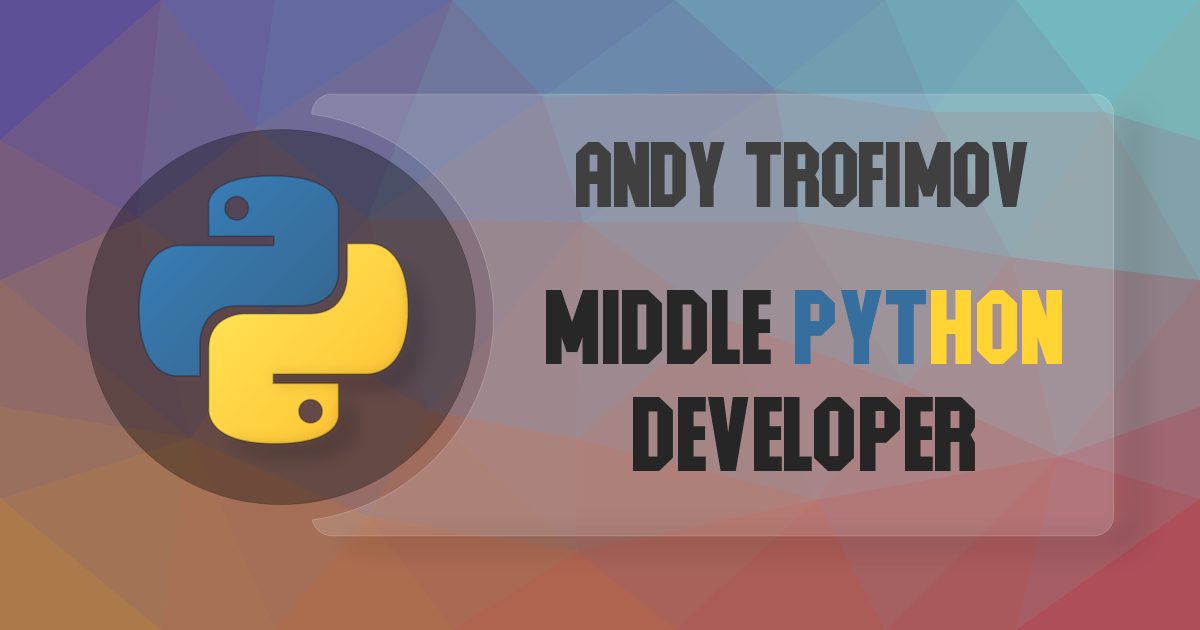
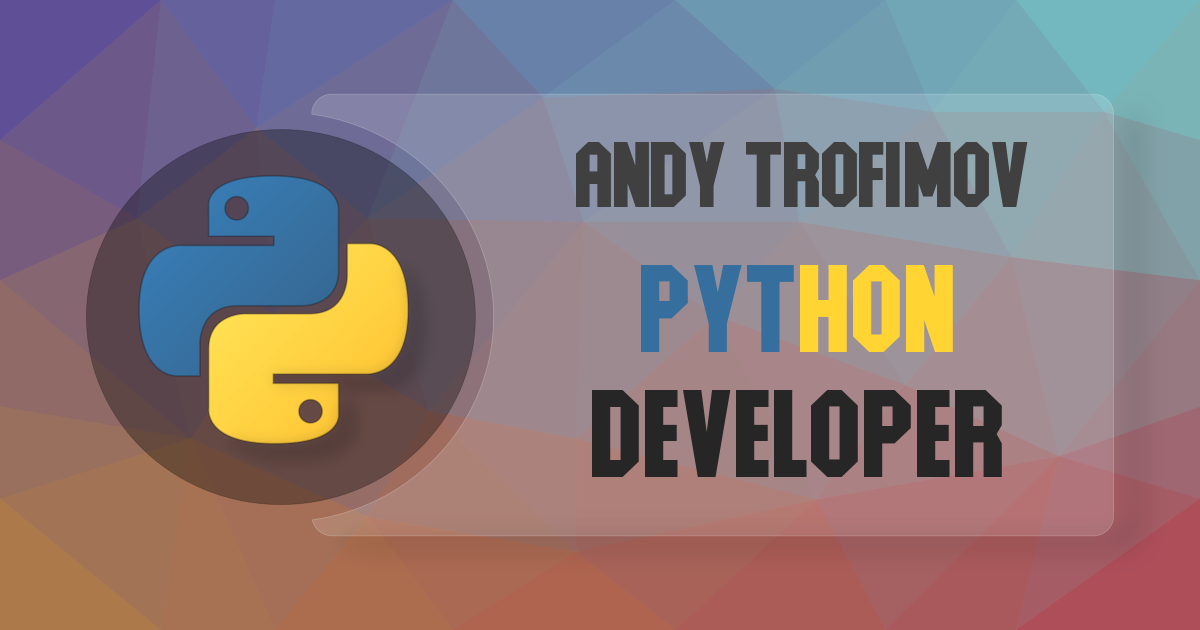
Add Realiste company

Changed region(s): [[0.4317, 0.4222, 0.8942, 0.754]]

diff --git a/src/icons/Sections/Interests.jsx b/src/icons/Sections/Interests.jsx
@@ -24,6 +24,24 @@ export const HiraganaIcon = createIcon({
   displayName: 'Hiragana Icon'
 })
 
+export const PlaneIcon = createIcon({
+  d: 'M-2.023-2.04c-.016.013-.016.02-.012.028.015-.011.023-.02.012-.027zm54.105 0c-.004 0-.004.005-.008.005.016.015.024.023.031.012-.007-.012-.015-.016-.023-.016zm-9.621 13.536c-.461.043-.906.082-1.348.137a7.005 7.005 0 00-2.074.61c-.812.378-1.613.773-2.422 1.155-.777.372-1.55.743-2.328 1.114-.8.386-1.602.77-2.402 1.152l-2.332 1.113c-.801.383-1.602.77-2.403 1.153-.808.386-1.613.773-2.418 1.16-.773.367-1.543.734-2.316 1.105L20 21.355l-2.39 1.141c-.782.375-1.563.746-2.344 1.125-.73.352-1.457.703-2.188 1.063a.582.582 0 01-.465.03c-.695-.234-1.398-.452-2.097-.683-1.29-.414-2.575-.836-3.864-1.254-.672-.218-1.343-.441-2.02-.656a.349.349 0 00-.218.008c-.648.289-1.289.582-1.945.879.015.031.035.078.066.113.332.379.66.762.996 1.137.45.5.903.996 1.36 1.492.359.39.718.79 1.097 1.164 1.04 1.027 2.09 2.05 3.137 3.07.184.176.375.34.574.493.36.265.785.351 1.215.367.512.02 1.027.008 1.535-.032a16.21 16.21 0 001.676-.203 49.596 49.596 0 002.727-.562 32.827 32.827 0 004.07-1.242 47.97 47.97 0 002.7-1.13c.757-.34 1.495-.718 2.241-1.077.07-.035.14-.059.13.074-.024.23-.028.46-.048.691-.03.364-.066.723-.105 1.086-.043.399-.09.797-.13 1.196-.026.246-.046.488-.073.734-.043.394-.09.785-.13 1.18-.027.25-.046.5-.073.75-.043.394-.09.789-.13 1.18-.027.25-.046.503-.074.753-.043.387-.09.774-.128 1.16-.028.258-.047.512-.075.77-.043.387-.09.773-.129 1.164-.027.254-.046.512-.074.766-.043.382-.09.765-.129 1.148-.027.262-.05.523-.078.781-.039.38-.082.754-.125 1.133-.035.281-.07.563-.094.848a7.872 7.872 0 00-.039.804c.004.239.153.383.332.348.067-.012.125-.066.188-.094.398-.187.8-.37 1.2-.558.597-.282 1.183-.582 1.792-.836.324-.137.54-.38.766-.614.093-.097.168-.226.215-.355.343-.934.68-1.875 1.015-2.812.465-1.29.926-2.579 1.39-3.868.415-1.16.833-2.316 1.25-3.476.54-1.504 1.079-3.012 1.618-4.516.46-1.285.922-2.566 1.379-3.851.055-.149.121-.258.273-.309.106-.035.203-.086.305-.133l1.566-.75c.485-.238.97-.48 1.457-.715.747-.355 1.497-.71 2.239-1.066.914-.438 1.82-.887 2.738-1.316.727-.344 1.414-.747 2.008-1.29.531-.48.969-1.039 1.262-1.699.168-.386.261-.8.171-1.219a2.13 2.13 0 00-1.132-1.48c-.926-.492-1.934-.656-2.965-.71-.317-.017-.633 0-.965 0zm-26.469 1.09a3.277 3.277 0 00-.328.027c-.012 0-.023-.004-.031 0-.07.016-.149.02-.211.051-.985.488-1.973.98-2.957 1.477a.464.464 0 00-.043.808c.746.477 1.496.95 2.242 1.422.625.399 1.25.8 1.883 1.207.91.594 1.816 1.176 2.715 1.766.113.074.203.043.304-.004.711-.336 1.426-.672 2.137-1.004 1.016-.48 2.031-.957 3.047-1.434.418-.199.844-.386 1.262-.586.195-.09.39-.191.617-.308-.086-.035-.125-.059-.172-.074-.738-.254-1.477-.504-2.215-.754-.984-.336-1.969-.676-2.957-1.012-1.043-.355-2.086-.711-3.129-1.07-.707-.243-1.406-.528-2.164-.512zm36.106 39.488c-.016.012-.024.02-.012.028.016-.012.016-.024.012-.028zm-54.133.008c-.004 0-.004 0-.008.004.012.016.023.016.031.012-.011-.012-.015-.02-.023-.016zm0 0',
+  viewBox: '0 0 50 50',
+  displayName: 'Plane Icon'
+})
+
+export const SegaNesIcon = createIcon({
+  d: 'M12.74 11.642c-3.145.204-5.924 1.327-8.335 3.37-4.36 4.357-5.484 9.444-3.37 15.26C3.39 35.179 7.293 37.855 12.74 38.3c8.623.118 17.243.077 25.86-.123 4.198-.687 7.405-2.832 9.622-6.435 2.37-4.494 2.37-8.988 0-13.482-2.52-4.05-6.177-6.235-10.97-6.557a2451.63 2451.63 0 00-24.513-.061zm23.359 5.456c1.358 0 2.451 1.093 2.451 2.451s-1.093 2.452-2.451 2.452-2.451-1.094-2.451-2.452 1.093-2.45 2.451-2.45zm-23.28.343h1.334a1.36 1.36 0 011.362 1.363V22.9h4.097a1.36 1.36 0 011.363 1.363v1.333a1.36 1.36 0 01-1.363 1.363h-4.097v4.097a1.36 1.36 0 01-1.362 1.362h-1.334a1.36 1.36 0 01-1.363-1.362v-4.097H7.36a1.36 1.36 0 01-1.363-1.363v-1.333A1.36 1.36 0 017.36 22.9h4.096v-4.096a1.36 1.36 0 011.363-1.363zm17.83 5.083a2.446 2.446 0 012.451 2.451 2.446 2.446 0 01-2.451 2.451 2.446 2.446 0 01-2.451-2.45 2.446 2.446 0 012.451-2.452zm10.903 0c1.358 0 2.451 1.093 2.451 2.451s-1.093 2.451-2.451 2.451-2.451-1.093-2.451-2.45 1.093-2.452 2.451-2.452zM36.099 28a2.446 2.446 0 012.451 2.451 2.446 2.446 0 01-2.451 2.451 2.446 2.446 0 01-2.451-2.45A2.446 2.446 0 0136.097 28z',
+  viewBox: '0 0 50 50',
+  displayName: 'Sega / NES Icon'
+})
+
+export const NoteIcon = createIcon({
+  d: 'M22.918 0v33.332h-12.5V37.5H6.25v8.332h4.168V50h12.5v-4.168h4.164V16.668h8.336V25h4.164v8.332h4.168V16.668h-4.168V12.5h-4.164V8.332H31.25V4.168h-4.168V0zm0 0',
+  viewBox: '0 0 50 50',
+  displayName: 'Note Icon'
+})
+
 /** Icon factory */
 export const getIcon = ({ name, props }) => {
   switch (name) {
@@ -35,6 +53,12 @@ export const getIcon = ({ name, props }) => {
       return <ShieldIcon {...props} />
     case 'hiragana':
       return <HiraganaIcon {...props} />
+    case 'plane':
+      return <PlaneIcon {...props} />
+    case 'sega-nes':
+      return <SegaNesIcon {...props} />
+    case 'note':
+      return <NoteIcon {...props} />
     default:
       return <Icon {...props} />
   }

diff --git a/src/icons/TechStacks.jsx b/src/icons/TechStacks.jsx
@@ -104,9 +104,23 @@ export const DjangoIcon = createIcon({
   displayName: 'Django Icon'
 })
 
+export const DockerIcon = createIcon({
+  d: 'M13.983 11.078h2.119a.186.186 0 00.186-.185V9.006a.186.186 0 00-.186-.186h-2.119a.185.185 0 00-.185.185v1.888c0 .102.083.185.185.185m-2.954-5.43h2.118a.186.186 0 00.186-.186V3.574a.186.186 0 00-.186-.185h-2.118a.185.185 0 00-.185.185v1.888c0 .102.082.185.185.185m0 2.716h2.118a.187.187 0 00.186-.186V6.29a.186.186 0 00-.186-.185h-2.118a.185.185 0 00-.185.185v1.887c0 .102.082.185.185.186m-2.93 0h2.12a.186.186 0 00.184-.186V6.29a.185.185 0 00-.185-.185H8.1a.185.185 0 00-.185.185v1.887c0 .102.083.185.185.186m-2.964 0h2.119a.186.186 0 00.185-.186V6.29a.185.185 0 00-.185-.185H5.136a.186.186 0 00-.186.185v1.887c0 .102.084.185.186.186m5.893 2.715h2.118a.186.186 0 00.186-.185V9.006a.186.186 0 00-.186-.186h-2.118a.185.185 0 00-.185.185v1.888c0 .102.082.185.185.185m-2.93 0h2.12a.185.185 0 00.184-.185V9.006a.185.185 0 00-.184-.186h-2.12a.185.185 0 00-.184.185v1.888c0 .102.083.185.185.185m-2.964 0h2.119a.185.185 0 00.185-.185V9.006a.185.185 0 00-.184-.186h-2.12a.186.186 0 00-.186.186v1.887c0 .102.084.185.186.185m-2.92 0h2.12a.185.185 0 00.184-.185V9.006a.185.185 0 00-.184-.186h-2.12a.185.185 0 00-.184.185v1.888c0 .102.082.185.185.185M23.763 9.89c-.065-.051-.672-.51-1.954-.51-.338.001-.676.03-1.01.087-.248-1.7-1.653-2.53-1.716-2.566l-.344-.199-.226.327c-.284.438-.49.922-.612 1.43-.23.97-.09 1.882.403 2.661-.595.332-1.55.413-1.744.42H.751a.751.751 0 00-.75.748 11.376 11.376 0 00.692 4.062c.545 1.428 1.355 2.48 2.41 3.124 1.18.723 3.1 1.137 5.275 1.137.983.003 1.963-.086 2.93-.266a12.248 12.248 0 003.823-1.389c.98-.567 1.86-1.288 2.61-2.136 1.252-1.418 1.998-2.997 2.553-4.4h.221c1.372 0 2.215-.549 2.68-1.009.309-.293.55-.65.707-1.046l.098-.288Z',
+  viewBox: '0 0 24 24',
+  displayName: 'Docker Icon'
+})
+
+export const GitlabCIIcon = createIcon({
+  d: 'M910.5 553.2l-109-370.8c-6.8-20.4-23.1-34.1-44.9-34.1s-39.5 12.3-46.3 32.7l-72.2 215.4H386.2L314 181.1c-6.8-20.4-24.5-32.7-46.3-32.7s-39.5 13.6-44.9 34.1L113.9 553.2c-4.1 13.6 1.4 28.6 12.3 36.8l385.4 289 386.7-289c10.8-8.1 16.3-23.1 12.2-36.8z',
+  viewBox: '0 0 1024 1024',
+  displayName: 'Gitlab CI Icon'
+})
+
+
+
 /** Icon factory */
 export const getIcon = ({ name, props }) => {
-  switch (name.toLowerCase()) {
+  switch (name.replaceAll(' ', '-').toLowerCase()) {
     case 'fastapi':
       return <FastAPIIcon {...props} />
     case 'html':
@@ -138,7 +152,7 @@ export const getIcon = ({ name, props }) => {
     case 'tkinter':
       return <TkinterIcon {...props} />
     case 'tortoiseorm':
-    case 'tortoise orm':
+    case 'tortoise-orm':
       return <TortoiseORMIcon {...props} />
     case 'i18n':
       return <GlobeIcon {...props} />
@@ -153,6 +167,10 @@ export const getIcon = ({ name, props }) => {
       return <ASPIcon {...props} />
     case 'django':
       return <DjangoIcon {...props} />
+    case 'docker':
+      return <DockerIcon {...props} />
+    case 'gitlab-ci':
+      return <GitlabCIIcon {...props} />
     default:
       return <Icon {...props} />
   }

diff --git a/src/icons/Sections/WorkExperience.jsx b/src/icons/Sections/WorkExperience.jsx
@@ -70,7 +70,7 @@ export const SelfEmployedIcon = createIcon({
   displayName: 'Self Employed Icon'
 })
 
-export const InlineTelecomSolutions = createIcon({
+export const InlineTelecomSolutionsIcon = createIcon({
   path: (
     <g>
       <path
@@ -87,6 +87,32 @@ export const InlineTelecomSolutions = createIcon({
   displayName: 'Inline Telecom Solutions Icon'
 })
 
+export const RealisteIcon = createIcon({
+  path: (
+    <g>
+      <defs>
+        <linearGradient id="a" gradientUnits="userSpaceOnUse" x1="18.612" y1="629.68" x2="220.87"
+          y2="57.609" gradientTransform="matrix(.07087 0 0 .07087 14.058 .025)">
+          <stop offset=".049" stopColor="#00acff" />
+          <stop offset=".21" stopColor="#2193f3" />
+          <stop offset=".384" stopColor="#556bdf" />
+          <stop offset=".588" stopColor="#7b4ed1" />
+          <stop offset=".767" stopColor="#923cc8" />
+          <stop offset=".938" stopColor="#9b35c5" />
+        </linearGradient>
+      </defs>
+      <path
+        d="M18.023 0h17.32a4.082 4.082 0 014.083 4.078v35.25a4.083 4.083 0 01-4.082 4.082h-17.32a4.083 4.083 0 01-4.083-4.082V4.078A4.082 4.082 0 0118.023 0zm0 0"
+        fill="#fff" />
+      <path
+        d="M12.246.031C5.461.06 0 5.492 0 12.277v25.45c0 6.785 5.46 12.25 12.246 12.25h25.488a12.222 12.222 0 0012.246-12.25v-25.45C49.98 5.492 44.516.113 37.734.031L35.391 0c-.547.066-.832.555-1.075.898l-9.73 13.774a.558.558 0 00.457.875h7.289c.45 0 .711.5.453.871L15.883 40.387c-.246.343-.785.074-.649-.328l6.54-20.02a.55.55 0 00-.524-.723h-6.64a.554.554 0 01-.524-.722L19.852.91a.754.754 0 00-.606-.91zm0 0"
+        fill="url(#a)" />
+    </g>
+  ),
+  viewBox: '0 0 50 50',
+  displayName: 'Realiste Company Icon'
+})
+
 /** Icon factory */
 export const getIcon = ({ name, props }) => {
   switch (name) {
@@ -97,7 +123,9 @@ export const getIcon = ({ name, props }) => {
     case 'company-self-employed':
       return <SelfEmployedIcon {...props} />
     case 'inline-telecom-solutions':
-      return <InlineTelecomSolutions {...props} />
+      return <InlineTelecomSolutionsIcon {...props} />
+    case 'realiste':
+      return <RealisteIcon {...props} />
     default:
       return <Icon {...props} />
   }

diff --git a/src/index.html b/src/index.html
@@ -8,7 +8,7 @@
 
     <!-- Facebook Meta Tags -->
     <meta property="og:type" content="profile" />
-    <meta property="og:title" content="Andy Trofimov - Middle Python Developer" />
+    <meta property="og:title" content="Andy Trofimov - Python Developer" />
     <meta property="og:description" content="Python Developer CV Page" />
     <meta property="og:locale" content="en_US" />
     <meta property="og:locale:alternate" content="ru_RU" />
@@ -23,7 +23,7 @@
 
     <!-- Twitter Meta Tags -->
     <meta name="twitter:card" content="summary_large_image" />
-    <meta name="twitter:title" content="Andy Trofimov - Middle Python Developer" />
+    <meta name="twitter:title" content="Andy Trofimov - Python Developer" />
     <meta name="twitter:description" content="Python Developer CV Page" />
     <meta name="twitter:domain" content="cv.interlark.ru" />
     <meta name="twitter:url" content="https://cv.interlark.ru/" />
@@ -31,7 +31,7 @@
 
     <link rel="shortcut icon" href="favicon.ico" />
     <script type="module" src="./index.jsx"></script>
-    <title>Andy Trofimov - Middle Python Developer</title>
+    <title>Andy Trofimov - Python Developer</title>
   </head>
   <body>
     <div id="root"></div>

diff --git a/src/sections/WorkExperience.jsx b/src/sections/WorkExperience.jsx
@@ -70,6 +70,7 @@ export default function WorkExperience(props) {
                     {job.stack.map((name) => (
                       <TechStackTag
                         mr={2}
+                        mt={1}
                         key={name}
                         name={name}
                         verticalAlign="baseline"

diff --git a/src/sections/Projects.jsx b/src/sections/Projects.jsx
@@ -56,6 +56,7 @@ export default function Projects(props) {
                 {obj.stack.map((name) => (
                   <TechStackTag
                     mr={2}
+                    mt={1}
                     key={name}
                     name={name}
                     verticalAlign="baseline"

diff --git a/README.md b/README.md
@@ -1,8 +1,10 @@
-# CV: Middle Python Developer
+# CV: Python Developer
 
 My CV built with [React](https://github.com/facebook/react) and [Chakra UI](https://github.com/chakra-ui/chakra-ui).
 
-You can use it for your own purposes, just replace your resume in `src/locales/*.json` files and probaly you would want your own icons in `src/icons` and meta data in `src/index.html`.
+You can use it for your own purposes, just replace your resume in `src/locales/*.json` files and probably you would want your own icons in `src/icons` and meta data in `src/index.html`.
 
-
-![drawing-output](https://user-images.githubusercontent.com/20641837/183622938-8fa9de02-2064-4b25-bdad-c79e4da98bca.png)
+<br />
+<p align="center">
+  <img alt="CV Preview" src="assets/preview.png" width="85%" />
+</p>
